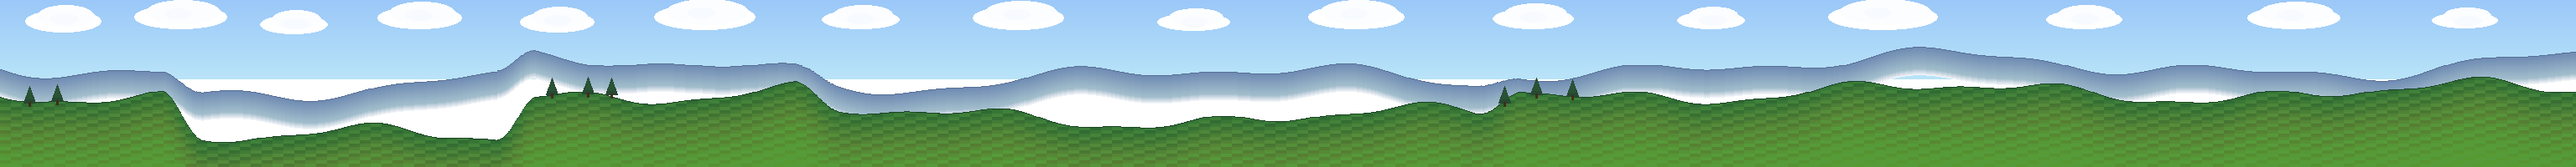
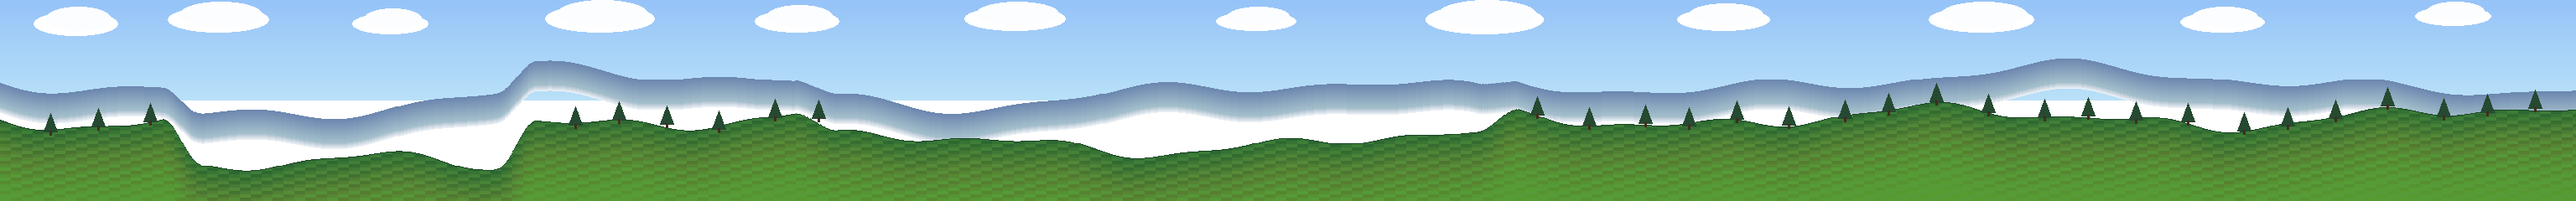
Enclose Oakhaven valley with forest rims and soften waterfall bowl (P78-P82).

diff --git a/projects/06-game-factory/perfect_game/perfect-game/docs/VISUAL_CRITIC_OVERVIEW.md b/projects/06-game-factory/perfect_game/perfect-game/docs/VISUAL_CRITIC_OVERVIEW.md
@@ -1,21 +1,21 @@
-# 视觉 Critic — golden vs overview（2026-09-07 · P73–P77）
+# 视觉 Critic — golden vs overview（2026-09-07 · P78–P82）
 
 ## 结论
-更接近 overview：**是**（更高天空带、碗口软过渡、有机崖/瀑、BAKERY/SHOP/CAFE 可读招牌、广场毛边）。  
+更接近 overview：**是**（东西南林缘围合 + 北麓林带开始读成山谷；瀑头不规则崖；天空条 240px；广场缀边加密）。  
 达到「商店页可直接当主图」：**否**。
 
 ## 本轮证据
 - MCP `0` error · `GOLDEN_CAPTURE_DONE`
-- `prop_skyline_wide` 3072×200；碗口用 smooth feather，去掉叠云/双崖假缝
-- `prop_cliff` / `prop_waterfall` 重绘；河岸崖堆减量
-- 招牌文字 SHOP / CAFE / BAKERY；overview 可读 BAKERY
-- 广场边缘 dither 泥土/草；overview 取景 y=36
+- `decor._forest_rim()`：西/东/南密林 + 北麓 y18–26 林带（留瀑布走廊与车站疏空）
+- `world` 瀑头椭圆碗状 CLIFF/HILL 混合，去掉整块砖矩形
+- `prop_skyline_wide` 3072×240；overview zoom 0.34
+- 广场外围 tuft/pebble 加密
 
 ## 仍差
-1. 天空仍偏窄，远峰层次不够油画  
-2. 瀑布近景仍偏平面条带；未达参考「林中坠落」  
-3. 广场 fringe 改善有限，tile 感仍强  
-4. 立面仍是 PIL；缺用户签字试玩 + itch URL  
+1. 仍非参考图那种「整谷被松林包住」的油画密度与层次  
+2. 瀑布近景仍偏道具叠层，未达林中坠落一体构图  
+3. 路径/广场 tile 感、PIL 立面仍在  
+4. 缺用户签字试玩 + itch URL  
 
 ## Goal
 **不可 complete**。

diff --git a/projects/06-game-factory/perfect_game/perfect-game/docs/GOAL_5H_PACKAGES.md b/projects/06-game-factory/perfect_game/perfect-game/docs/GOAL_5H_PACKAGES.md
@@ -234,3 +234,16 @@
 
 ### 天空加高进度
 - [x] P73 · P74 · P75 · P76 · P77  
+
+## 山谷林缘围合（≠ complete）
+
+| ID | 估时 | 目标 | 完成证据 |
+|----|------|------|----------|
+| P78 | 40m | 东西南+北麓林缘围合 | overview |
+| P79 | 30m | 瀑头不规则 amphitheater | waterfall |
+| P80 | 25m | 天空条 240px + 更广 overview | 00_overview |
+| P81 | 20m | 广场缀边加密 | town |
+| P82 | 25m | golden + Critic + push | origin/main |
+
+### 山谷林缘进度
+- [x] P78 · P79 · P80 · P81 · P82  
